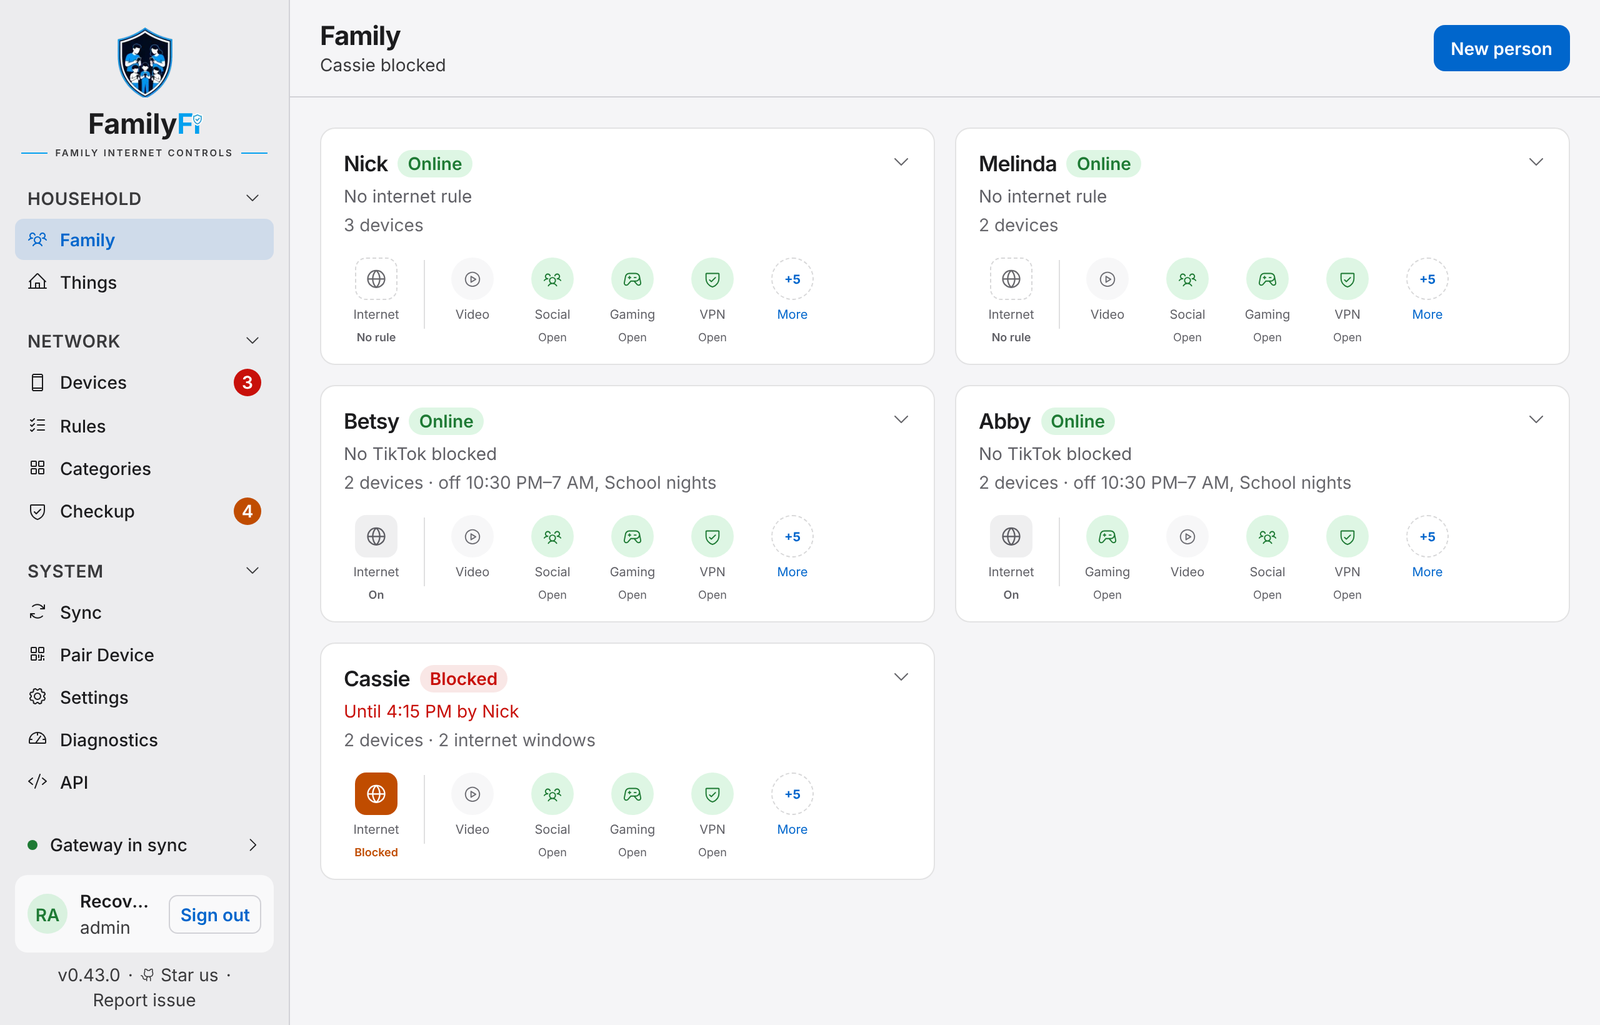
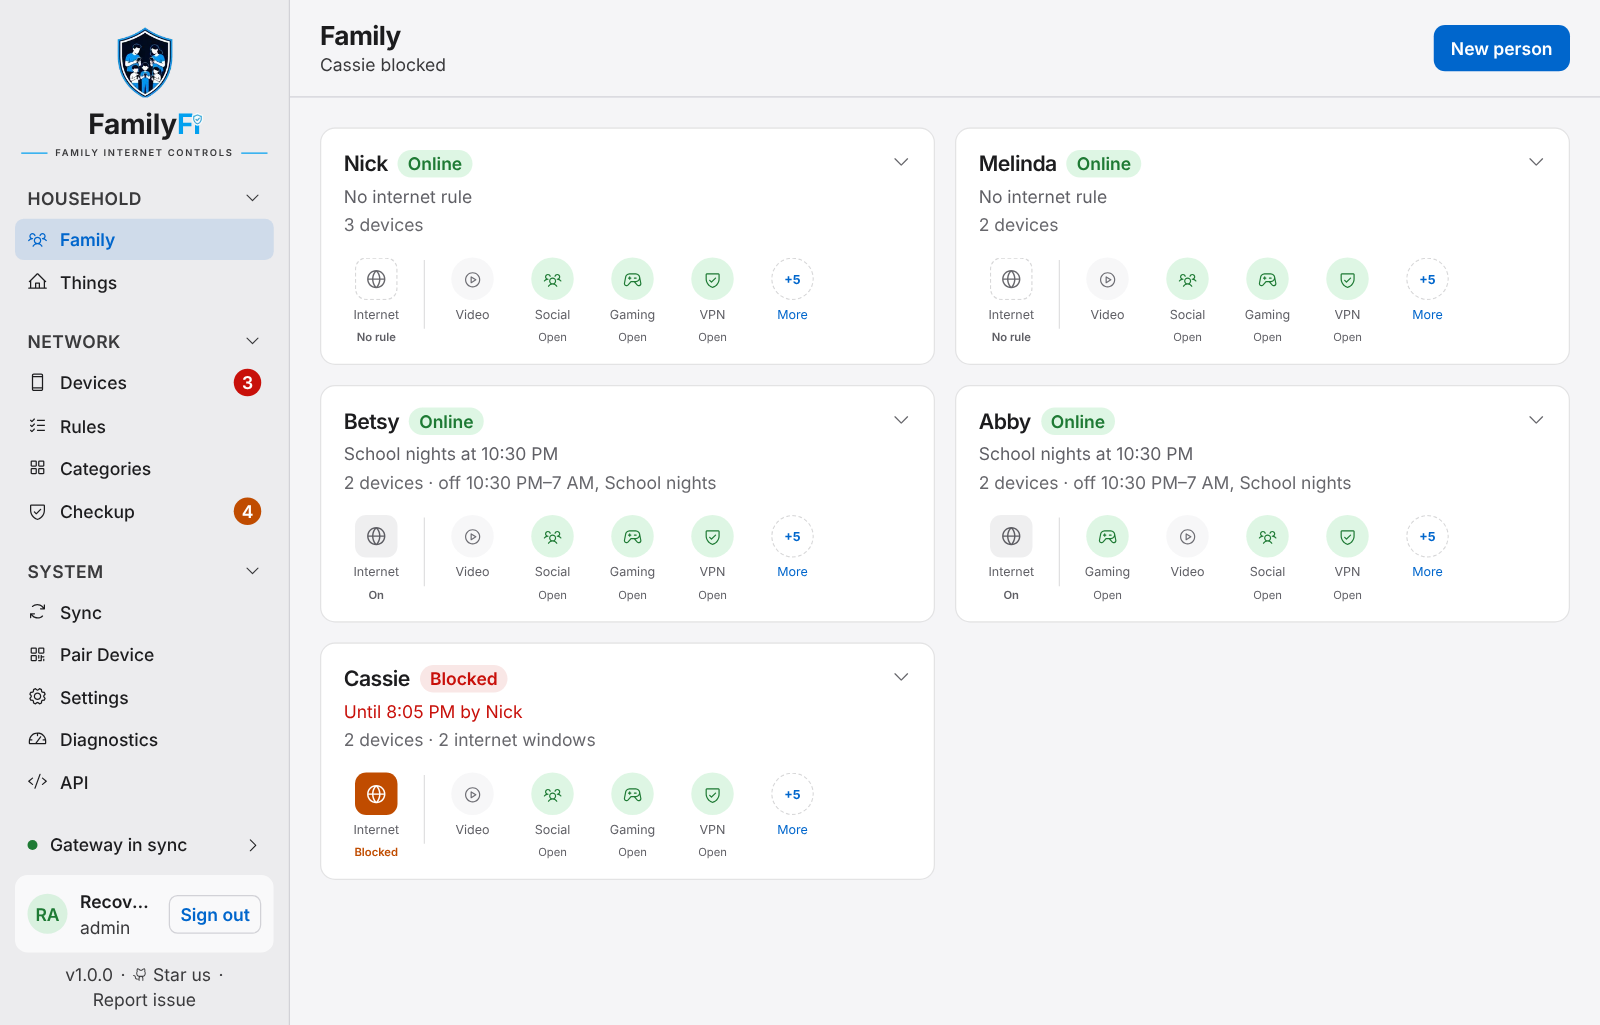
Bump to 1.0.0 (#355)
<!-- claude-projects-attribution: {"github_login":"nickberardi"} -->
_Requested by **Nick** · [project
thread](https://claude.ai/code/project/chan_01YCABi76zUZQJywHPJ6ngGq?thread=cmsg_01YCABi76zUZQJywHPJ6ngGqENWDoTzoQCxPbEvQRbLoDd)_

## Summary

Launch day for 1.0.0. The SECURITY.md rewrite and the browser smoke-test
fix that were first in this PR already reached `main` in #358, so this
is now just the version and the README screenshots.

- **1.0.0.** The version goes from 0.45.1 to 1.0.0 in `package.json`,
OpenAPI `info.version` and `API_VERSION`. The contract is unchanged. The
x-min floors stay at 0.36.0 / 0.36.0 / 0.30.0, so every shipped app and
Watch keeps working. It carries the `breaking_api` label because CI
requires it for any major increase. Nothing here breaks.
- **README screenshots.** `docs/images/web-family.png` and
`web-rules.png` were retaken from the dev household at the same 1280×820
view at 1.25x. The sidebar now reads v1.0.0. `web-setup.png` shows no
version, so it is unchanged.

After this merges, `v1.0.0` is tagged on `main` and
nickberardi/familyfi-mobile#132 re-pins to `main`.

## Validation

- `pnpm typecheck` passed, and the unit suite passed (128 files, 1,593
tests).
- `check-openapi-floors.mjs origin/main`: the floors hold.

🤖 Generated with [Claude Code](https://claude.com/claude-code)

https://claude.ai/code/session_01F2wMBHtfc3obANiz7TYvYw

---------

diff --git a/src/lib/api-compat.ts b/src/lib/api-compat.ts
@@ -14,7 +14,7 @@ import { compareSemver, parseSemver } from "./semver";
  * A literal rather than package.json's, so a client that vendors this module, such as the companion
  * app, never bundles familyfi's package.json; `tests/unit/api-compat.test.ts` fails when it drifts.
  */
-export const API_VERSION: string = "0.45.1";
+export const API_VERSION: string = "1.0.0";
 /** The oldest client API version this server still serves (`info.x-min-app`). */
 export const MIN_APP_API_VERSION = "0.36.0";
 /** The oldest server API version a client built from this contract can read (`info.x-min-server`). */
